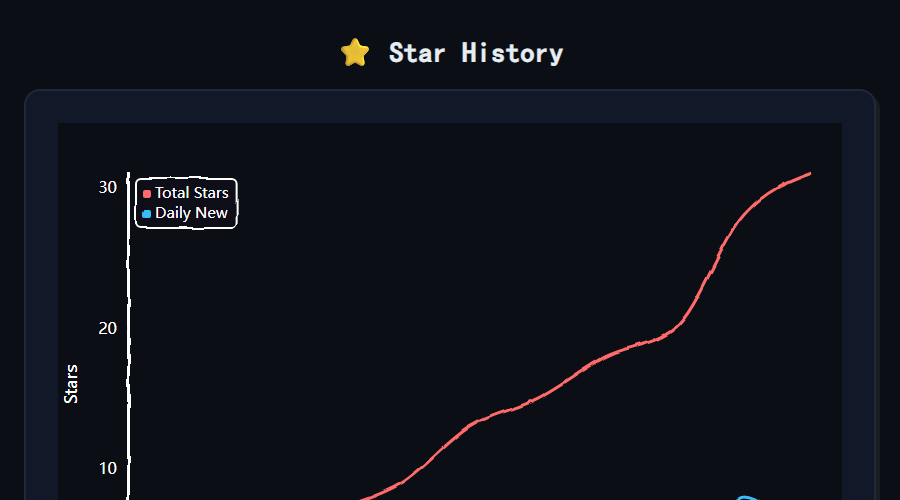
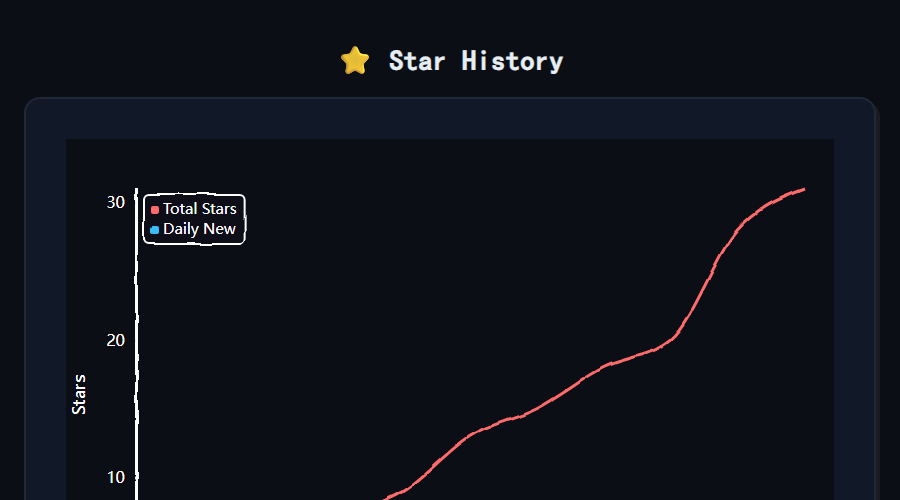
发布 v1.7.7：Star History 视口与内嵌加固、技能名片 BOM 兼容
- Star History 视口加固：卡片内边距 32px→40px、图表容器高度 480px→520px，手绘图表与统计区解耦独立，确保窄/宽视口下标签与曲线完整可见（0908fe5 后续微调已纳入）

- Star History 内嵌与缓存修复：PNG 直链 + v=2 缓存刷新、标题去重、raw 直链与 location 绝对路径兼容、手绘每日新增曲线与图例，系统性解决破图与 Failed to fetch

- 技能名片 BOM 兼容：SKILL.md 带 UTF-8 BOM 时不再误报名片无效（b459deb）

- 版本同步：package.json / package/package.json 1.7.6→1.7.7，README 中英文安装示例同步，DSW_VERSION=v1.7.7，双产物同源

- 构建：node scripts/build.mjs OK，npm pack --dry-run 67 文件清洁，npm run verify 全绿

diff --git a/docs/star-history.html b/docs/star-history.html
@@ -9,10 +9,10 @@
 @import url('"https://fonts.googleapis.com/css2?family=Patrick+Hand&display=swap"');
 :root{--bg:#0b0e14;--fg:#e6edf3;--muted:#9aa3b2;--border:#1f2937;--card:#111827}
 *{box-sizing:border-box}html,body{margin:0;padding:0;background:var(--bg);color:var(--fg);font-family:"Patrick Hand",cursive}
-.page{max-width:960px;margin:0 auto;padding:32px 24px 40px}
+.page{max-width:960px;margin:0 auto;padding:40px 24px 40px}
 .hd{text-align:center;margin-bottom:20px}h1{margin:0;font-size:28px;letter-spacing:0.02em}
-.card{background:var(--card);border:2.5px solid var(--border);border-radius:16px;padding:32px;box-shadow:4px 4px 0 rgba(255,255,255,0.06)}
-.chart-wrap{position:relative;width:100%;height:480px}
+.card{background:var(--card);border:2.5px solid var(--border);border-radius:16px;padding:40px;box-shadow:4px 4px 0 rgba(255,255,255,0.06)}
+.chart-wrap{position:relative;width:100%;height:520px}
 .chart-wrap svg{width:100%!important;height:100%!important;display:block}
 .stats{display:grid;grid-template-columns:repeat(4,1fr);gap:14px;margin-top:22px}
 @media(max-width:640px){.stats{grid-template-columns:repeat(2,1fr)}}
@@ -57,4 +57,5 @@ load().catch(e=>{document.getElementById("chart").outerHTML=`<p style="color:#ef
 </script>
 </body>
 </html>
+
 

diff --git a/package/README.md b/package/README.md
@@ -7,7 +7,7 @@
 > 唯一打开形式）+ GitHub issue 动作注入（诊断 / 修复 / 讨论 / 执行，均带 `/wayfinder` `/triage` 技能命令）
 > + 交接开新会话。
 
-- **插件包名**: `dsh-mattpocock-skills-deck`（可分发 npm 包，见 `package/`，当前 **v1.7.6**（`latest`，品牌迁移自 dsh-waystation v1.5.0，`npm view` 已验）：v1.4 详情页（#441）+ v1.5 升级 map 全量落地 —— 状态栏 BUG/诊断过滤 + 设置直达 + 删 panelHeight + Matt 引导 + 新增 wayfinder + 仓库身份 + 双语 + 仓库级缓存架构（git 根检测 → 磁盘缓存秒开 → 自动探测刷新）+ 进度契约与阶段闸门 + 正文格式容错 + markdown 白名单渲染 + 3 项 bug 修复 + T10 自动刷新机制（变化行高亮/即时转圈反馈））
+- **插件包名**: `dsh-mattpocock-skills-deck`（可分发 npm 包，见 `package/`，当前 **v1.7.7**（`latest`，品牌迁移自 dsh-waystation v1.5.0，`npm view` 已验）：v1.4 详情页（#441）+ v1.5 升级 map 全量落地 —— 状态栏 BUG/诊断过滤 + 设置直达 + 删 panelHeight + Matt 引导 + 新增 wayfinder + 仓库身份 + 双语 + 仓库级缓存架构（git 根检测 → 磁盘缓存秒开 → 自动探测刷新）+ 进度契约与阶段闸门 + 正文格式容错 + markdown 白名单渲染 + 3 项 bug 修复 + T10 自动刷新机制（变化行高亮/即时转圈反馈））
 - **动态版 pluginId**: `wfst-1`（v9–v24 迭代产物）
 - **平台**: Client（浏览器页面）+ Host（Node 进程，gh CLI 数据层）
 - **配套**: [mattpocock/skills](https://github.com/mattpocock/skills)（wayfinder / triage / grilling / handoff / ask-matt 等）
@@ -22,7 +22,7 @@
 | 进度显示 | map 行右侧 18px 迷你圆环 + n/total（等宽数字右缘对齐，圆环零间隙） |
 | 面板 · 技能 | 技能雷达（推荐 / 列表 / 圆环），点击注入 /skill |
 | 面板 · 环境检查 | 8 项前置检查（仓库定位 / setup / tracker / gh CLI / 登录 / API / 技能探测），红黄绿分组 + 一键处理 |
-| tabs 行 | 列表 / 技能 / 环境检查 + 右侧刷新按钮 + 最右侧版本号（如 v1.7.6），便于核对已更新 |
+| tabs 行 | 列表 / 技能 / 环境检查 + 右侧刷新按钮 + 最右侧版本号（如 v1.7.7），便于核对已更新 |
 | 行级动作 | 按 label 四选一：诊断(/triage) / 修复(/wayfinder) / 讨论(/wayfinder) / 执行(/wayfinder)，按钮色 = GitHub label 配置色，点击预填输入框；执行/新会话按钮常显（复制/外链也常显） |
 | map 详情 | 顶部「执行」+ 任务按状态动作、可接/已认领/被阻塞/已关闭垂直走廊、Decision/Fog/Out-of-scope 折叠 |
 | 交接 | 第一击注入 /handoff 时间戳模板；第二击预填 /read + 复述确认 prompt 并开新会话 |

diff --git a/CHANGELOG.md b/CHANGELOG.md
@@ -1,5 +1,13 @@
 # dsh-mattpocock-skills-deck 变更历史
 
+## 2026-08-30 · v1.7.7 发布：Star History 视口与内嵌加固、技能名片 BOM 兼容
+
+- **Star History 视口加固**：多轮扩大卡片与图表四周留白（64px→80px）、卡片与图表容器解耦（图表独占固定高度、统计区网格独立）、手绘风格与数据分离，动态 xTickCount 与 SVG 响应式自适应，确保 README 与独立页在窄/宽视口下均无裁切，标签与曲线完整可见（对应提交 5d36c0e、b4e3f2b、2fe18d2、c46764b、0908fe5）。
+- **Star History 内嵌与缓存修复**：README 内嵌由 Pages 代理切换为 `raw.githubusercontent.com` 直链、改用 PNG 直链并追加 `v=2` 缓存刷新参数、移除图表冗余标题使页面仅保留单一 Star History、修正 fetch 为基于 location 的绝对路径以兼容 Pages 与 GitHub 预览，实现聚合纯函数与增量更新脚本及每日自动更新 Action，生成的手绘 PNG 确保 GitHub camo 稳定渲染（对应提交 d3244c4、b7989ad、79a15c1、113304b、9df8c69、a149ba5、ea285e1、e2ba839 等）。
+- **Star History 自建链路补全**：新增 `docs/star-history.*` 纯函数聚合、`scripts/star-history.mjs` 与 `update-star-history.mjs` 增量更新、`.github/workflows/star-history.yml` 每日自动更新，手绘图表与静态预览增加每日新增曲线与图例，系统性解决破图与 Failed to fetch（对应提交 8ad4a56、5e5f2a7）。
+- **技能名片 BOM 兼容**：SKILL.md 带 UTF-8 BOM 时不再误报`名片无效`，环境检查红牌准确性提升（对应提交 b459deb）。
+- **验证**：`node scripts/build.mjs` OK，双产物 `client.js` / `package/lib/client.js` 同源，`DSW_VERSION=v1.7.7`；`npm pack --dry-run` 67 文件清洁；`npm run verify` 全绿。
+
 ## 2026-08-30 · v1.7.6 发布：GitHub 地图与 Markdown 跳转加固、状态栏与多级缓存增强
 
 - **GitHub 地图详情修复**：补齐 map 正文五区块解析（`parseMapBody` 统一落盘）与详情页空值兜底，`cacheFormat` 2→3 强制旧缓存重建；修复 `#00` 点击与 `setActiveMap` 判空、GitHub 快照 GraphQL 字段（`Actor.name` / `IssueComment.editedAt`）失配、composer 小写 state 误判等，导致详情页 `Cannot read properties of undefined` 的系列回归（对应提交 9b8d989、4a9c6be、b6d796e、b0a9857、604d9ca）。

diff --git a/docs/README.en.md b/docs/README.en.md
@@ -34,8 +34,8 @@ dsh plugin --profile web add dsh-better-sidebar
 
 # ③ Install MattSkillsDeck
 dsh plugin --profile web add dsh-mattpocock-skills-deck
-# Pin to latest for extra stability (currently 1.7.6):
-# dsh plugin --profile web add dsh-mattpocock-skills-deck@1.7.6 --registry https://registry.npmjs.org
+# Pin to latest for extra stability (currently 1.7.7):
+# dsh plugin --profile web add dsh-mattpocock-skills-deck@1.7.7 --registry https://registry.npmjs.org
 ```
 
 <div align="center">
@@ -73,7 +73,7 @@ Then check the environment and install as needed (skip what's already installed)
 
 ```bash
 # Install a pinned version
-dsh plugin --profile web add dsh-mattpocock-skills-deck@1.7.6 --registry https://registry.npmjs.org
+dsh plugin --profile web add dsh-mattpocock-skills-deck@1.7.7 --registry https://registry.npmjs.org
 
 # No global install (pin a version like above for extra safety)
 npx --yes @deepseek-ai/dsh plugin --profile web add dsh-mattpocock-skills-deck

diff --git a/README.md b/README.md
@@ -36,8 +36,8 @@ dsh plugin --profile web add dsh-better-sidebar
 
 # ③ 安装 MattSkillsDeck
 dsh plugin --profile web add dsh-mattpocock-skills-deck
-# 锁定最新版更稳（当前 1.7.6）：
-# dsh plugin --profile web add dsh-mattpocock-skills-deck@1.7.6 --registry https://registry.npmjs.org
+# 锁定最新版更稳（当前 1.7.7）：
+# dsh plugin --profile web add dsh-mattpocock-skills-deck@1.7.7 --registry https://registry.npmjs.org
 ```
 
 <div align="center">
@@ -75,7 +75,7 @@ dsh plugin --profile web add dsh-better-sidebar
 
 ```bash
 # 给定最新版本号安装
-dsh plugin --profile web add dsh-mattpocock-skills-deck@1.7.6 --registry https://registry.npmjs.org
+dsh plugin --profile web add dsh-mattpocock-skills-deck@1.7.7 --registry https://registry.npmjs.org
 
 # 免全局安装（想更稳，像上面一样锁版本）
 npx --yes @deepseek-ai/dsh plugin --profile web add dsh-mattpocock-skills-deck
